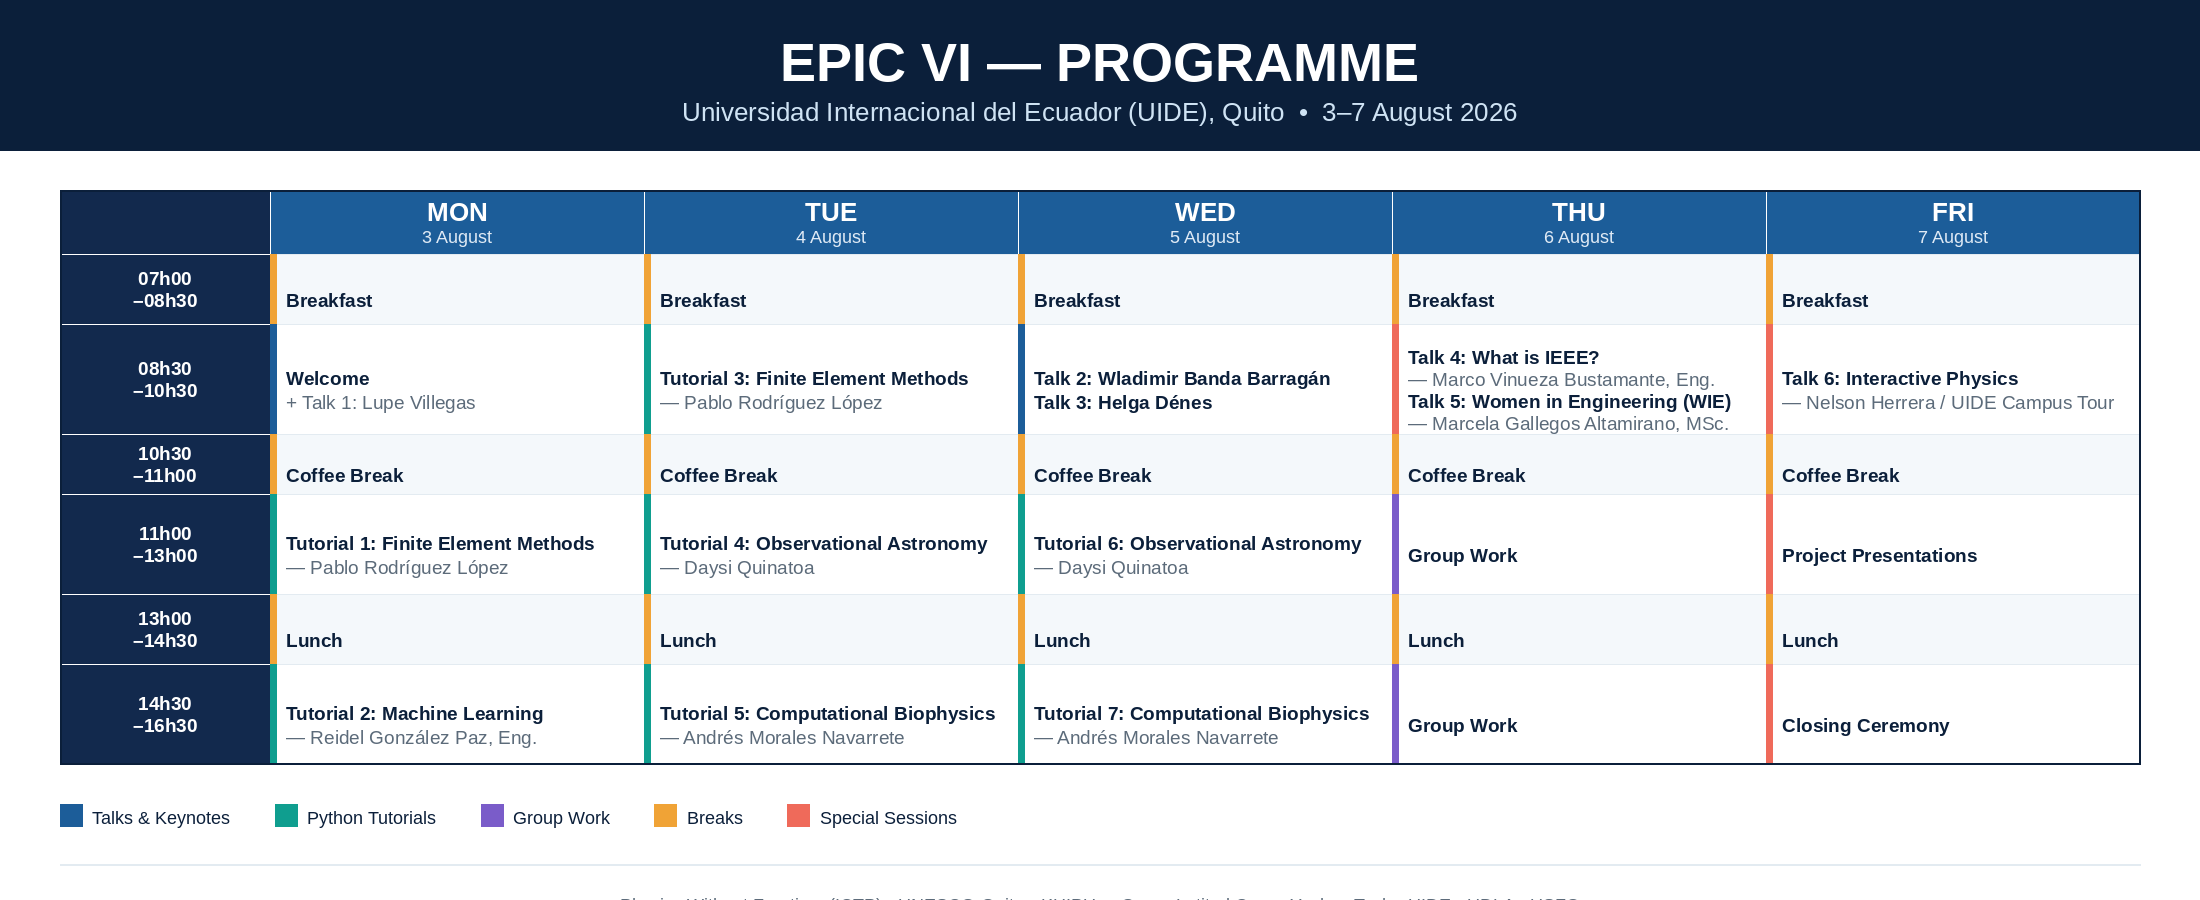
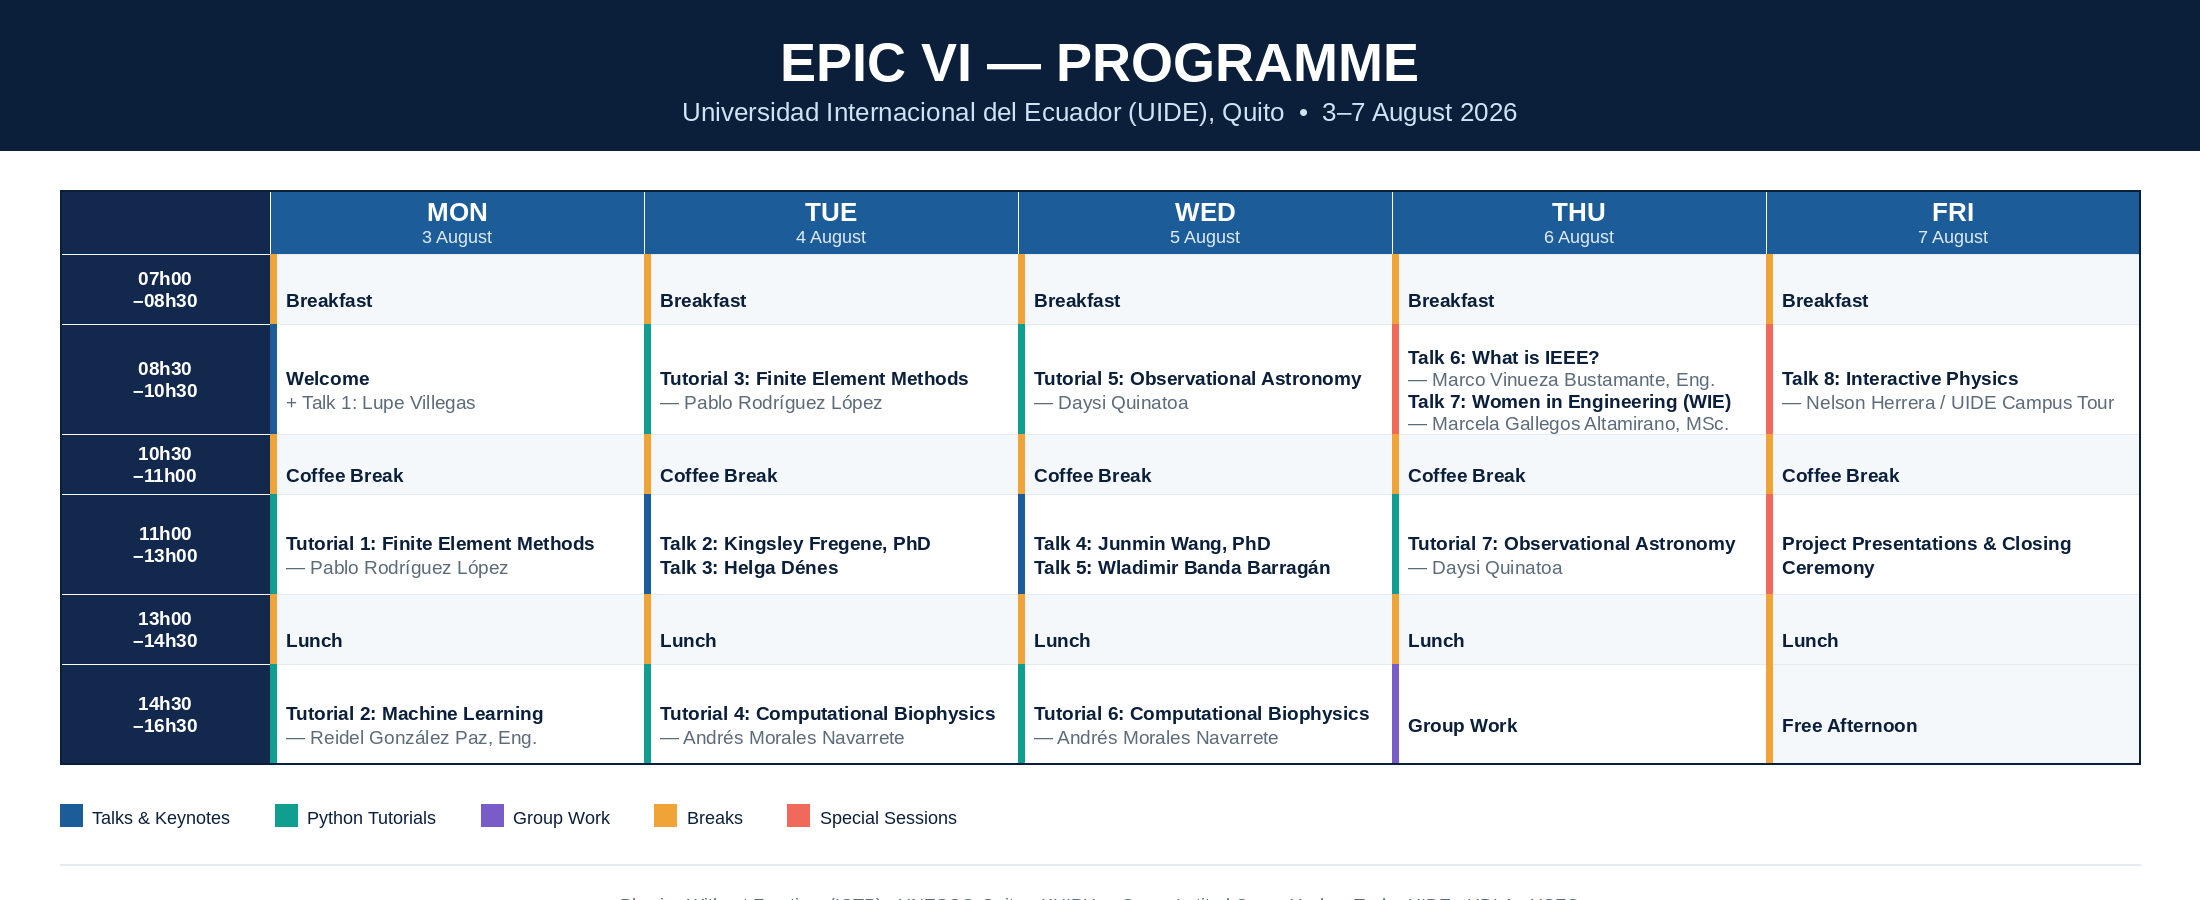
Update

Changed region(s): [[0.2782, 0.56, 0.9582, 0.6533], [0.4636, 0.4044, 0.6182, 0.4667], [0.8036, 0.7778, 0.8655, 0.84]]

diff --git a/index.html b/index.html
@@ -935,9 +935,15 @@
               <td class="session-cell"><span class="session-badge badge-break">Break</span>Coffee Break</td>
             </tr>
             <tr>
-              <td class="session-time"><i class="fa fa-clock-o"></i>11h00 – 13h00</td>
+              <td class="session-time"><i class="fa fa-clock-o"></i>11h00 – 12h00</td>
               <td class="session-cell">
-                <span class="session-item"><span class="session-badge badge-tutorial">Tutorial</span>Python Tutorial 4: Observational Astronomy — <strong>Daysi Quinatoa</strong> <span class="speaker-org">(PUCE)</span></span>
+                <span class="session-item"><span class="session-badge badge-keynote">Talk</span>Talk 2: <strong>Kingsley Fregene, PhD</strong> <span class="speaker-org">(IEEE Fellow, Lockheed Martin)</span></span>
+              </td>
+            </tr>
+            <tr>
+              <td class="session-time"><i class="fa fa-clock-o"></i>12h00 – 13h00</td>
+              <td class="session-cell">
+                <span class="session-item"><span class="session-badge badge-keynote">Talk</span>Talk 3: <strong>Helga Dénes</strong> <span class="speaker-org">(USFQ)</span></span>
               </td>
             </tr>
             <tr class="session-row-lunch">
@@ -947,7 +953,7 @@
             <tr>
               <td class="session-time"><i class="fa fa-clock-o"></i>14h30 – 16h30</td>
               <td class="session-cell">
-                <span class="session-item"><span class="session-badge badge-tutorial">Tutorial</span>Python Tutorial 5: Computational Biophysics — <strong>Andrés Morales Navarrete</strong> <span class="speaker-org">(UDLA)</span></span>
+                <span class="session-item"><span class="session-badge badge-tutorial">Tutorial</span>Python Tutorial 4: Computational Biophysics — <strong>Andrés Morales Navarrete</strong> <span class="speaker-org">(UDLA)</span></span>
               </td>
             </tr>
           </table>
@@ -974,8 +980,7 @@
             <tr>
               <td class="session-time"><i class="fa fa-clock-o"></i>08h30 – 10h30</td>
               <td class="session-cell">
-                <span class="session-item"><span class="session-badge badge-keynote">Talk</span>Talk 2: <strong>Wladimir Banda Barragán</strong> <span class="speaker-org">(Yachay Tech)</span></span>
-                <span class="session-item"><span class="session-badge badge-keynote">Talk</span>Talk 3: <strong>Helga Dénes</strong> <span class="speaker-org">(USFQ)</span></span>
+                <span class="session-item"><span class="session-badge badge-tutorial">Tutorial</span>Python Tutorial 5: Observational Astronomy — <strong>Daysi Quinatoa</strong> <span class="speaker-org">(PUCE)</span></span>
               </td>
             </tr>
             <tr class="session-row-break">
@@ -983,9 +988,15 @@
               <td class="session-cell"><span class="session-badge badge-break">Break</span>Coffee Break</td>
             </tr>
             <tr>
-              <td class="session-time"><i class="fa fa-clock-o"></i>11h00 – 13h00</td>
+              <td class="session-time"><i class="fa fa-clock-o"></i>11h00 – 12h00</td>
               <td class="session-cell">
-                <span class="session-item"><span class="session-badge badge-tutorial">Tutorial</span>Python Tutorial 6: Observational Astronomy — <strong>Daysi Quinatoa</strong> <span class="speaker-org">(PUCE)</span></span>
+                <span class="session-item"><span class="session-badge badge-keynote">Talk</span>Talk 4: <strong>Junmin Wang, PhD</strong> <span class="speaker-org">(IEEE Fellow, UT Austin)</span></span>
+              </td>
+            </tr>
+            <tr>
+              <td class="session-time"><i class="fa fa-clock-o"></i>12h00 – 13h00</td>
+              <td class="session-cell">
+                <span class="session-item"><span class="session-badge badge-keynote">Talk</span>Talk 5: <strong>Wladimir Banda Barragán</strong> <span class="speaker-org">(Yachay Tech)</span></span>
               </td>
             </tr>
             <tr class="session-row-lunch">
@@ -995,7 +1006,7 @@
             <tr>
               <td class="session-time"><i class="fa fa-clock-o"></i>14h30 – 16h30</td>
               <td class="session-cell">
-                <span class="session-item"><span class="session-badge badge-tutorial">Tutorial</span>Python Tutorial 7: Computational Biophysics — <strong>Andrés Morales Navarrete</strong> <span class="speaker-org">(UDLA)</span></span>
+                <span class="session-item"><span class="session-badge badge-tutorial">Tutorial</span>Python Tutorial 6: Computational Biophysics — <strong>Andrés Morales Navarrete</strong> <span class="speaker-org">(UDLA)</span></span>
               </td>
             </tr>
           </table>
@@ -1022,8 +1033,8 @@
             <tr>
               <td class="session-time"><i class="fa fa-clock-o"></i>08h30 – 10h30</td>
               <td class="session-cell">
-                <span class="session-item"><span class="session-badge badge-keynote">Talk</span>Talk 4: What is IEEE? — <strong>Marco Vinueza</strong> <span class="speaker-org">(IEEE)</span></span>
-                <span class="session-item"><span class="session-badge badge-keynote">Talk</span>Talk 5: Women in Engineering (WIE) — <strong>Marcela Gallegos</strong> <span class="speaker-org">(IEEE WIE)</span></span>
+                <span class="session-item"><span class="session-badge badge-keynote">Talk</span>Talk 6: What is IEEE? — <strong>Marco Vinueza</strong> <span class="speaker-org">(IEEE)</span></span>
+                <span class="session-item"><span class="session-badge badge-keynote">Talk</span>Talk 7: Women in Engineering (WIE) — <strong>Marcela Gallegos</strong> <span class="speaker-org">(IEEE WIE)</span></span>
               </td>
             </tr>
             <tr class="session-row-break">
@@ -1033,7 +1044,7 @@
             <tr>
               <td class="session-time"><i class="fa fa-clock-o"></i>11h00 – 13h00</td>
               <td class="session-cell">
-                <span class="session-item"><span class="session-badge badge-group">Group Work</span>Group Work</span>
+                <span class="session-item"><span class="session-badge badge-tutorial">Tutorial</span>Python Tutorial 7: Observational Astronomy — <strong>Daysi Quinatoa</strong> <span class="speaker-org">(PUCE)</span></span>
               </td>
             </tr>
             <tr class="session-row-lunch">
@@ -1070,7 +1081,7 @@
             <tr>
               <td class="session-time"><i class="fa fa-clock-o"></i>08h30 – 10h30</td>
               <td class="session-cell">
-                <span class="session-item"><span class="session-badge badge-keynote">Talk</span>Talk 6: Interactive Physics — <strong>Nelson Herrera</strong></span>
+                <span class="session-item"><span class="session-badge badge-keynote">Talk</span>Talk 8: Interactive Physics — <strong>Nelson Herrera</strong></span>
                 <span class="session-item"><span class="session-badge badge-special">Special</span>UIDE Campus Tour</span>
               </td>
             </tr>
@@ -1081,7 +1092,7 @@
             <tr>
               <td class="session-time"><i class="fa fa-clock-o"></i>11h00 – 13h00</td>
               <td class="session-cell">
-                <span class="session-item"><span class="session-badge badge-special">Special</span>Project Presentations</span>
+                <span class="session-item"><span class="session-badge badge-special">Special</span>Project Presentations &amp; Closing Ceremony</span>
               </td>
             </tr>
             <tr class="session-row-lunch">
@@ -1091,7 +1102,7 @@
             <tr>
               <td class="session-time"><i class="fa fa-clock-o"></i>14h30 – 16h30</td>
               <td class="session-cell">
-                <span class="session-item"><span class="session-badge badge-special">Closing</span>Closing Ceremony</span>
+                <span class="session-item"><span class="session-badge badge-break">Break</span>Free Afternoon</span>
               </td>
             </tr>
           </table>
@@ -1367,6 +1378,40 @@
           <p class="mentor-affiliation"><i class="fa fa-university"></i> Universidad Internacional del Ecuador (UIDE), Quito</p>
           <p class="mentor-bio">Professor Emeritus at UIDE, where he has held the Chair of Mathematics, Physics, and Digital Circuits for 25 years. An Electronics Engineer with international research experience in Cuba, France, Czechia, and Poland, including a documented study on the magnetic disturbances caused by the July 1991 solar eclipse.</p>
           <button class="btn btn-primary btn-sm mentor-more" data-mentor="mentor12">Read More</button>
+        </div>
+      </div>
+      <div class="col-md-4 col-sm-8 mentor-card">
+        <div class="mentor-img-container">
+          <img src="images/Kingsley_Fregene.png" alt="Kingsley Fregene" class="mentor-img">
+          <div class="mentor-social">
+            <a href="#"><i class="fa fa-linkedin"></i></a>
+            <a href="#"><i class="fa fa-github"></i></a>
+            <a href="#"><i class="fa fa-twitter"></i></a>
+          </div>
+        </div>
+        <div class="mentor-info">
+          <h3>Kingsley Fregene, PhD</h3>
+          <p class="mentor-title">Intelligent &amp; Robotic Systems</p>
+          <p class="mentor-affiliation"><i class="fa fa-university"></i> Lockheed Martin — IEEE Fellow</p>
+          <p class="mentor-bio">Dr. Fregene is Director of Technology Integration at Lockheed Martin, where he leads strategic research and technology initiatives. He is an IEEE Fellow and a member of the IEEE Control Systems Society Board of Governors, specializing in intelligent and robotic systems designed to protect lives and reduce human exposure to hazardous environments.</p>
+          <button class="btn btn-primary btn-sm mentor-more" data-mentor="mentor13">Read More</button>
+        </div>
+      </div>
+      <div class="col-md-4 col-sm-8 mentor-card">
+        <div class="mentor-img-container">
+          <img src="images/Junmin_Wang.png" alt="Junmin Wang" class="mentor-img">
+          <div class="mentor-social">
+            <a href="#"><i class="fa fa-linkedin"></i></a>
+            <a href="#"><i class="fa fa-github"></i></a>
+            <a href="#"><i class="fa fa-twitter"></i></a>
+          </div>
+        </div>
+        <div class="mentor-info">
+          <h3>Junmin Wang, PhD</h3>
+          <p class="mentor-title">Control, Modeling &amp; Smart Mobility</p>
+          <p class="mentor-affiliation"><i class="fa fa-university"></i> The University of Texas at Austin — IEEE Fellow</p>
+          <p class="mentor-bio">Dr. Wang is the Fletcher Stuckey Pratt Chair Professor in Engineering at UT Austin, where he directs the Mobility Systems Lab. His work spans control, modeling, artificial intelligence, smart mobility, robotics, and human-centered automation, with more than 420 peer-reviewed publications and 13 U.S. patents.</p>
+          <button class="btn btn-primary btn-sm mentor-more" data-mentor="mentor14">Read More</button>
         </div>
       </div>
 	</div>

diff --git a/js/mentors.js b/js/mentors.js
@@ -197,6 +197,40 @@ document.addEventListener('DOMContentLoaded', function() {
         "Digital Circuits"
       ]
     },
+    mentor13: {
+      name: "Kingsley Fregene, PhD",
+      title: "Intelligent & Robotic Systems",
+      affiliation: "Lockheed Martin — IEEE Fellow",
+      bio: "Dr. Kingsley Fregene is Director of Technology Integration at Lockheed Martin, where he leads the development and execution of strategic research and technology initiatives. Throughout his career, which has also included leadership roles at Honeywell, he has specialized in intelligent and robotic systems designed to protect lives and reduce human exposure to hazardous environments. He is an IEEE Fellow, a member of the IEEE Control Systems Society Board of Governors, and has served on editorial boards within IEEE societies related to control systems, robotics, and automation. In 2021, he received the Control Engineering Practice Award from the American Automatic Control Council. Dr. Fregene holds a Ph.D. and a master's degree from the University of Waterloo, as well as a first-class honors degree in Electrical and Computer Engineering.",
+      achievements: [
+        "IEEE Fellow; member, IEEE Control Systems Society Board of Governors",
+        "Control Engineering Practice Award, American Automatic Control Council (2021)",
+        "Leadership roles at Lockheed Martin (Director of Technology Integration) and Honeywell",
+        "Ph.D. and M.Sc., University of Waterloo; first-class honors degree in Electrical and Computer Engineering"
+      ],
+      courses: [
+        "Intelligent & Robotic Systems",
+        "Control Systems Engineering",
+        "Technology Strategy & Integration"
+      ]
+    },
+    mentor14: {
+      name: "Junmin Wang, PhD",
+      title: "Control, Modeling & Smart Mobility",
+      affiliation: "The University of Texas at Austin — IEEE Fellow",
+      bio: "Dr. Junmin Wang is the Fletcher Stuckey Pratt Chair Professor in Engineering at The University of Texas at Austin, where he also directs the Mobility Systems Lab. His career combines academic and industrial experience in control, modeling, artificial intelligence, smart mobility, robotics, and human-centered automation. He has authored or co-authored more than 420 peer-reviewed publications and holds 13 U.S. patents. He has received numerous international honors and is an IEEE, ASME, and SAE Fellow.",
+      achievements: [
+        "Fletcher Stuckey Pratt Chair Professor in Engineering, The University of Texas at Austin",
+        "Director, Mobility Systems Lab",
+        "More than 420 peer-reviewed publications and 13 U.S. patents",
+        "Fellow of IEEE, ASME, and SAE"
+      ],
+      courses: [
+        "Control Systems & Modeling",
+        "Smart Mobility",
+        "Human-Centered Automation & Robotics"
+      ]
+    },
   };
 
   // Mentor modal functionality
